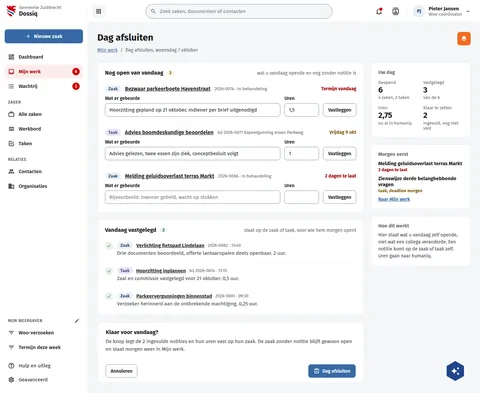
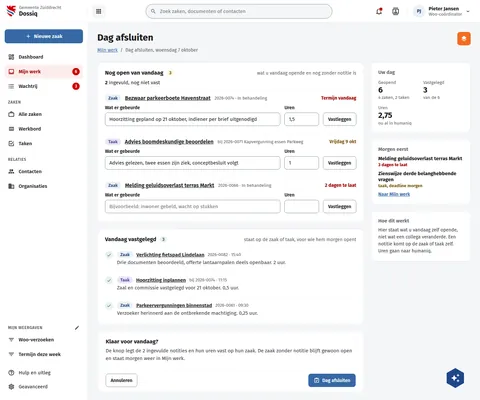
fix(screens): DqDagAfsluiten keeps the ready count in the notes card
The board counted the filled, not yet recorded notes as "Klaar te zetten"
in Uw dag. That count lives in the reader's browser (drafts are kept there
until recorded), while Uw dag's figures come from the server; the app shows
it as the first line of "Nog open van vandaag". Coordinator decision 25 Oct:
the board follows the app. Uw dag keeps Geopend, Vastgelegd and Uren.
Board and thumbnail rebuilt with build.py --only DqDagAfsluiten;
screens.json patched for this board's height only (1180 -> 1201).

Assisted-by: ClaudeCode:claude-opus-5-5

diff --git a/preview/screens/boards/DqDagAfsluiten.html b/preview/screens/boards/DqDagAfsluiten.html
@@ -157,6 +157,7 @@ a{color:var(--sc-primary, #3669a5)}a:hover{color:var(--sc-primary-deep, #234a78)
                 <h2 style="margin: 0; font-size: 17px; font-weight: 700; display: flex; align-items: center; gap: 10px">Nog open van vandaag<span style="padding: 1px 8px; border-radius: 10px; font-size: 13px; font-weight: 600; background: #fff4de; color: #7a4f00">3</span></h2>
                 <span style="font-size: 14px; color: var(--sc-work-muted, #5e6168)">wat u vandaag opende en nog zonder notitie is</span>
               </div>
+              <p style="margin: 0 0 6px; font-size: 15px; color: var(--sc-work-ink, #1b1c1d)"><strong>2</strong> ingevuld, nog niet vast</p>
               
                 <div style="display: flex; flex-direction: column; gap: 10px; padding: 16px 0; border-top: 1px solid var(--sc-work-soft, #eef0f3)">
                   <div style="display: flex; flex-wrap: wrap; align-items: center; gap: 8px 12px">
@@ -271,8 +272,6 @@ a{color:var(--sc-primary, #3669a5)}a:hover{color:var(--sc-primary-deep, #234a78)
                   <div style="display: flex; flex-direction: column; gap: 2px"><dt style="font-size: 13px; color: var(--sc-work-muted, #5e6168)">Vastgelegd</dt><dd style="margin: 0; font-size: 24px; font-weight: 700; line-height: 1.1">3</dd><dd style="margin: 0; font-size: 13px; color: var(--sc-work-muted, #5e6168)">van de 6</dd></div>
                 
                   <div style="display: flex; flex-direction: column; gap: 2px"><dt style="font-size: 13px; color: var(--sc-work-muted, #5e6168)">Uren</dt><dd style="margin: 0; font-size: 24px; font-weight: 700; line-height: 1.1">2,75</dd><dd style="margin: 0; font-size: 13px; color: var(--sc-work-muted, #5e6168)">nu al in humaniq</dd></div>
-                
-                  <div style="display: flex; flex-direction: column; gap: 2px"><dt style="font-size: 13px; color: var(--sc-work-muted, #5e6168)">Klaar te zetten</dt><dd style="margin: 0; font-size: 24px; font-weight: 700; line-height: 1.1">2</dd><dd style="margin: 0; font-size: 13px; color: var(--sc-work-muted, #5e6168)">ingevuld, nog niet vast</dd></div>
                 
               </dl>
             </section>

diff --git a/screens-src/zuiddrecht/DqDagAfsluiten.dc.html b/screens-src/zuiddrecht/DqDagAfsluiten.dc.html
@@ -39,6 +39,7 @@ a{color:#3669a5}a:hover{color:#234a78}
                 <h2 style="margin: 0; font-size: 17px; font-weight: 700; display: flex; align-items: center; gap: 10px">Nog open van vandaag<span style="padding: 1px 8px; border-radius: 10px; font-size: 13px; font-weight: 600; background: #fff4de; color: #7a4f00">3</span></h2>
                 <span style="font-size: 14px; color: #5e6168">wat u vandaag opende en nog zonder notitie is</span>
               </div>
+              <p style="margin: 0 0 6px; font-size: 15px; color: #1b1c1d"><strong>2</strong> ingevuld, nog niet vast</p>
               <sc-for list="{{ open }}" as="o" hint-placeholder-count="3">
                 <div style="display: flex; flex-direction: column; gap: 10px; padding: 16px 0; border-top: 1px solid #eef0f3">
                   <div style="display: flex; flex-wrap: wrap; align-items: center; gap: 8px 12px">
@@ -129,7 +130,7 @@ class Component extends DCLogic {
     ].map(([kind, title, meta, note, href]) => ({ kind, kindStyle: K[kind], title, meta, note, href }));
     const stats = [
       ['Geopend', '6', '4 zaken, 2 taken'], ['Vastgelegd', '3', 'van de 6'],
-      ['Uren', '2,75', 'nu al in humaniq'], ['Klaar te zetten', '2', 'ingevuld, nog niet vast']
+      ['Uren', '2,75', 'nu al in humaniq']
     ].map(([label, value, note]) => ({ label, value, note }));
     return { open, done, stats };
   }
